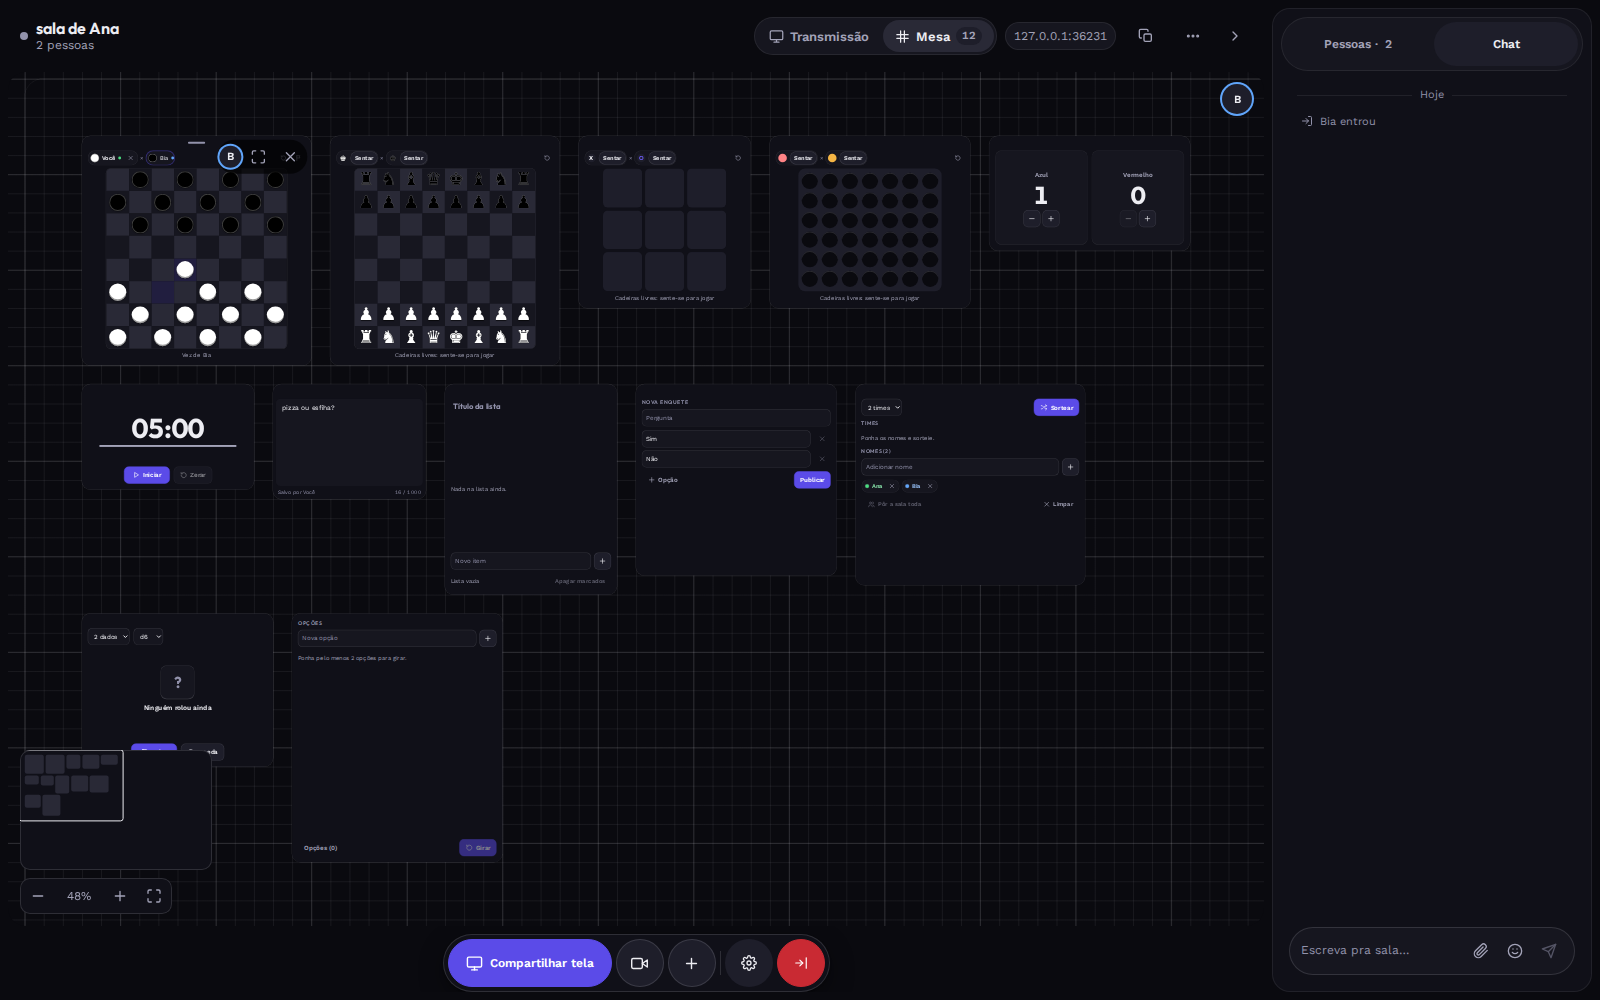
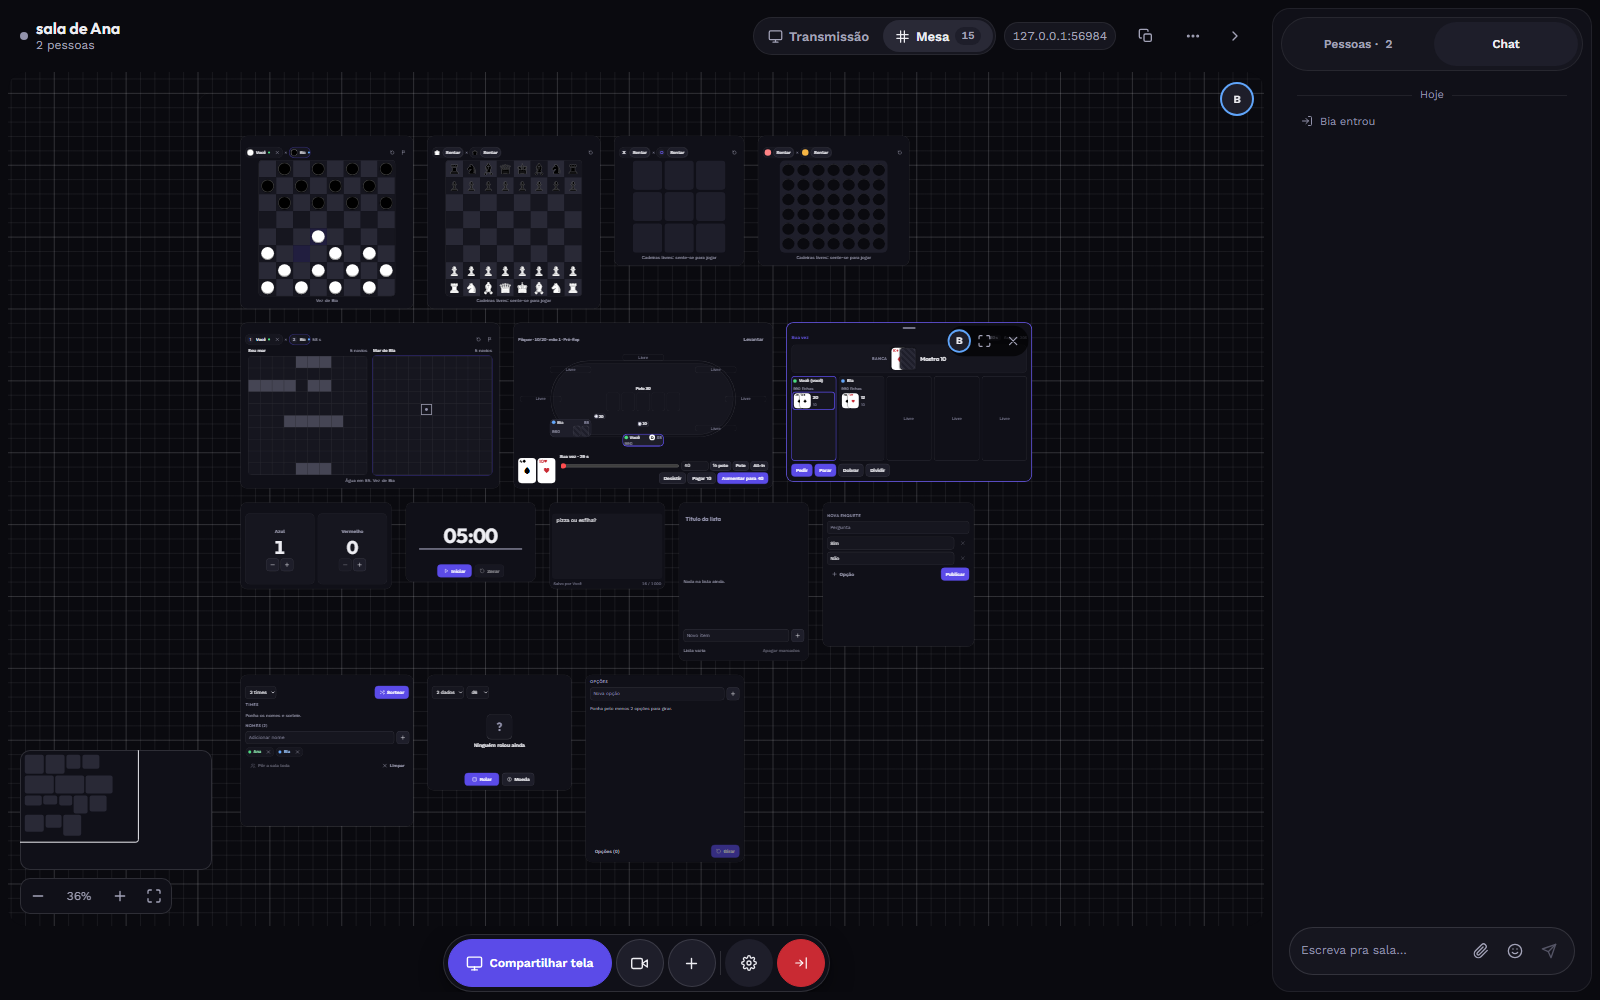
fix(cartas): poquer/blackjack na bancada mesa-real.js sem travar no clique
node tools/bancada-janelas/mesa-real.js (commit 794e7c6) travava com
TimeoutError: o clique em "Dar as cartas" do poquer era interceptado
pelo botao "Tela cheia" de .mesa-ctrls.

Causa raiz (as duas partes, uma de cada lado):

- App: .mj-poquer era o unico jogo sem o "respiro" de 30px no topo que
  o contrato pede para o conteudo nao ficar embaixo da alca/dos
  controles da janela (.mj.mj-bj ja tinha isso). Corrigido com
  padding-top: 30px, igual ao blackjack.
- Bancada: mesmo com o respiro, o zoom "Ver tudo" com as 15 janelas
  fica bem pequeno -- o conteudo encolhe junto com o zoom, mas
  .mesa-ctrls (avatar/tela cheia/tirar) tem `transform: scale(var(
  --mesa-inv))` e fica com tamanho fixo na tela. Nesse zoom os botoes
  do topo do poquer ("Dar as cartas", "Levantar") ficam menores que os
  controles da janela e caem por baixo deles -- um botao de ~10px de
  altura contra um cluster de ~30px sempre por cima. Isso nao acontecia
  com nenhuma outra janela testada em mesa-real.js (nota, damas,
  batalha) porque nenhuma delas tem um botao de acao real bem no canto
  de cima a direita nesse zoom. A bancada agora entra em "Tela cheia"
  (mesmo atalho ja usado ali para o print da batalha) antes de
  interagir com poquer e blackjack, do jeito que uma pessoa faria para
  clicar direito numa janela pequena, e volta com Esc depois.

De quebra, apareceu uma corrida pequena: a tela da Ana (pelo proprio
socket) atualiza um instante depois da confirmacao que a Bia recebe:
[…]

diff --git a/tools/bancada-janelas/mesa-real.js b/tools/bancada-janelas/mesa-real.js
@@ -200,21 +200,39 @@ async function main() {
     }
 
     // Pôquer (secret): Ana vê só as próprias duas cartas; a Bia sentada
-    // recebe a própria view, sem as cartas da Ana nem o baralho.
+    // recebe a própria view, sem as cartas da Ana nem o baralho. No zoom
+    // "Ver tudo" com as 15 janelas a caixa fica pequena (o conteudo encolhe
+    // com o zoom, mas os controles do canto -- avatar/tela cheia/tirar --
+    // tem tamanho fixo na tela) e "Dar as cartas"/"Levantar" ficam por
+    // baixo deles; tela cheia (o mesmo atalho usado acima para o print da
+    // batalha) tira a janela do zoom da mesa e da tamanho de sobra para
+    // clicar, como uma pessoa faria antes de jogar numa janela pequena.
     const pq = win('poquer');
+    await pq.hover();
+    await pq.locator('.mesa-ctrl[data-act="full"]').click();
+    await espera(300);
     await pq.getByRole('button', { name: /^Sentar/ }).first().click();
     await bia.espera((m) => m.type === 'mesa' && m.op === 'state' && m.id === ids.poquer && m.state.seats[0]).catch(() => null);
     bia.envia({ type: 'mesa', op: 'act', id: ids.poquer, action: { kind: 'sit', seat: 1 } });
     await bia.espera((m) => m.type === 'mesa' && m.op === 'state' && m.id === ids.poquer && m.state.seats[1] === bia.id);
     await pq.getByRole('button', { name: 'Dar as cartas' }).click();
     const maoPoquer = await bia.espera((m) => m.type === 'mesa' && m.op === 'state' && m.id === ids.poquer && m.state.hand).catch(() => null);
+    // A tela da Ana atualiza pelo proprio socket, que chega perto do da Bia
+    // mas nao junto: espera a segunda carta aparecer em vez de contar na hora.
+    await pq.locator('.mj-pq-minhas .mj-carta').nth(1).waitFor({ timeout: 2000 }).catch(() => {});
     conferir(await pq.locator('.mj-pq-minhas .mj-carta').count() === 2, 'pôquer: Ana vê as próprias duas cartas');
     conferir(!!maoPoquer && maoPoquer.state.hand.holes[0] === null && maoPoquer.state.hand.holes[1]?.length === 2,
       'pôquer: Bia não recebe as cartas da Ana nem o baralho');
+    await page.keyboard.press('Escape');
+    await espera(300);
 
     // Blackjack (secret): a fechada da banca fica nula no socket até a
-    // rodada terminar; o sapato nunca é enviado.
+    // rodada terminar; o sapato nunca é enviado. Mesmo motivo da tela
+    // cheia acima.
     const bj = win('blackjack');
+    await bj.hover();
+    await bj.locator('.mesa-ctrl[data-act="full"]').click();
+    await espera(300);
     await bj.getByRole('button', { name: /^Sentar/ }).first().click();
     await bia.espera((m) => m.type === 'mesa' && m.op === 'state' && m.id === ids.blackjack && m.state.seats[0]).catch(() => null);
     bia.envia({ type: 'mesa', op: 'act', id: ids.blackjack, action: { kind: 'sit', seat: 1 } });
@@ -225,6 +243,8 @@ async function main() {
     const cartasBj = await bia.espera((m) => m.type === 'mesa' && m.op === 'state' && m.id === ids.blackjack && m.state.dealer.cards.length === 2).catch(() => null);
     conferir(!!cartasBj && cartasBj.state.dealer.cards[1] === null && !Object.hasOwn(cartasBj.state, 'shoe'),
       'blackjack: Bia não recebe a fechada da banca nem o sapato');
+    await page.keyboard.press('Escape');
+    await espera(300);
 
     await page.mouse.move(5, 5);
     await espera(400);

diff --git a/src/renderer/mesa-janelas.css b/src/renderer/mesa-janelas.css
@@ -1323,6 +1323,7 @@
 .mj-poquer {
   --pq-lugar-w: 116px;
   --pq-carta-lugar: 22px;
+  padding-top: 30px;
   gap: var(--s-1);
 }
 .mj-pq-topo { min-height: 30px; }
